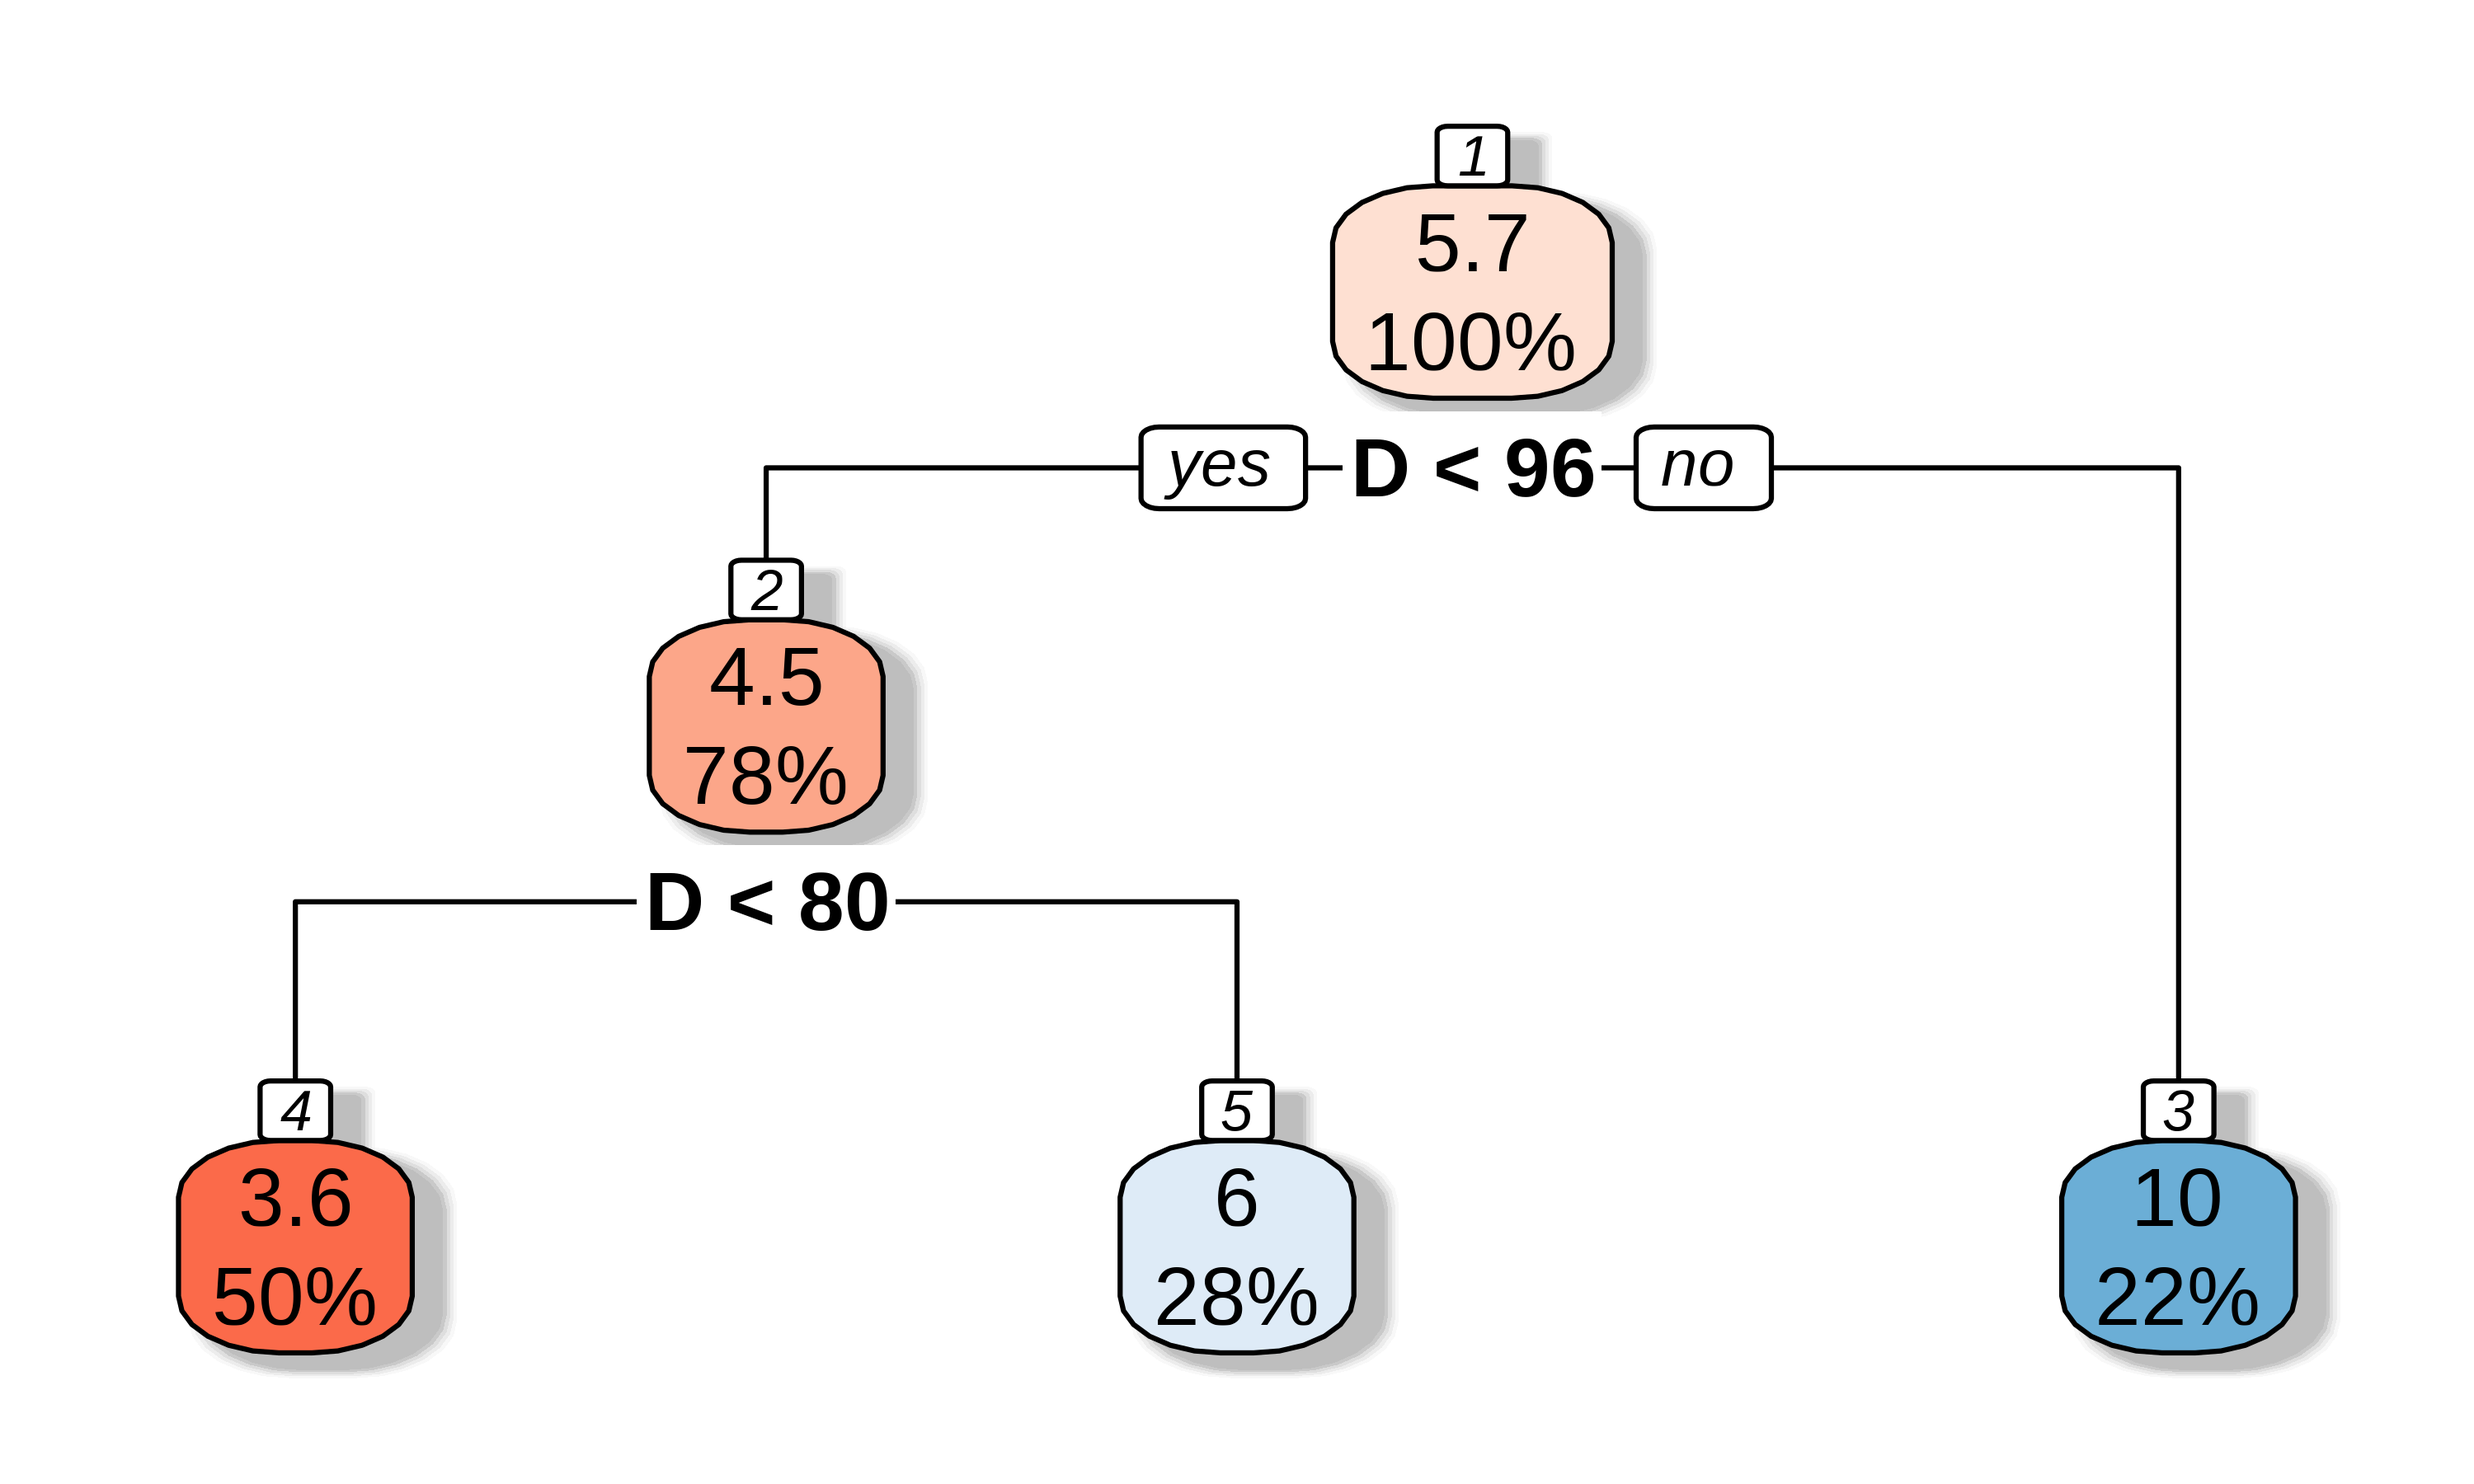
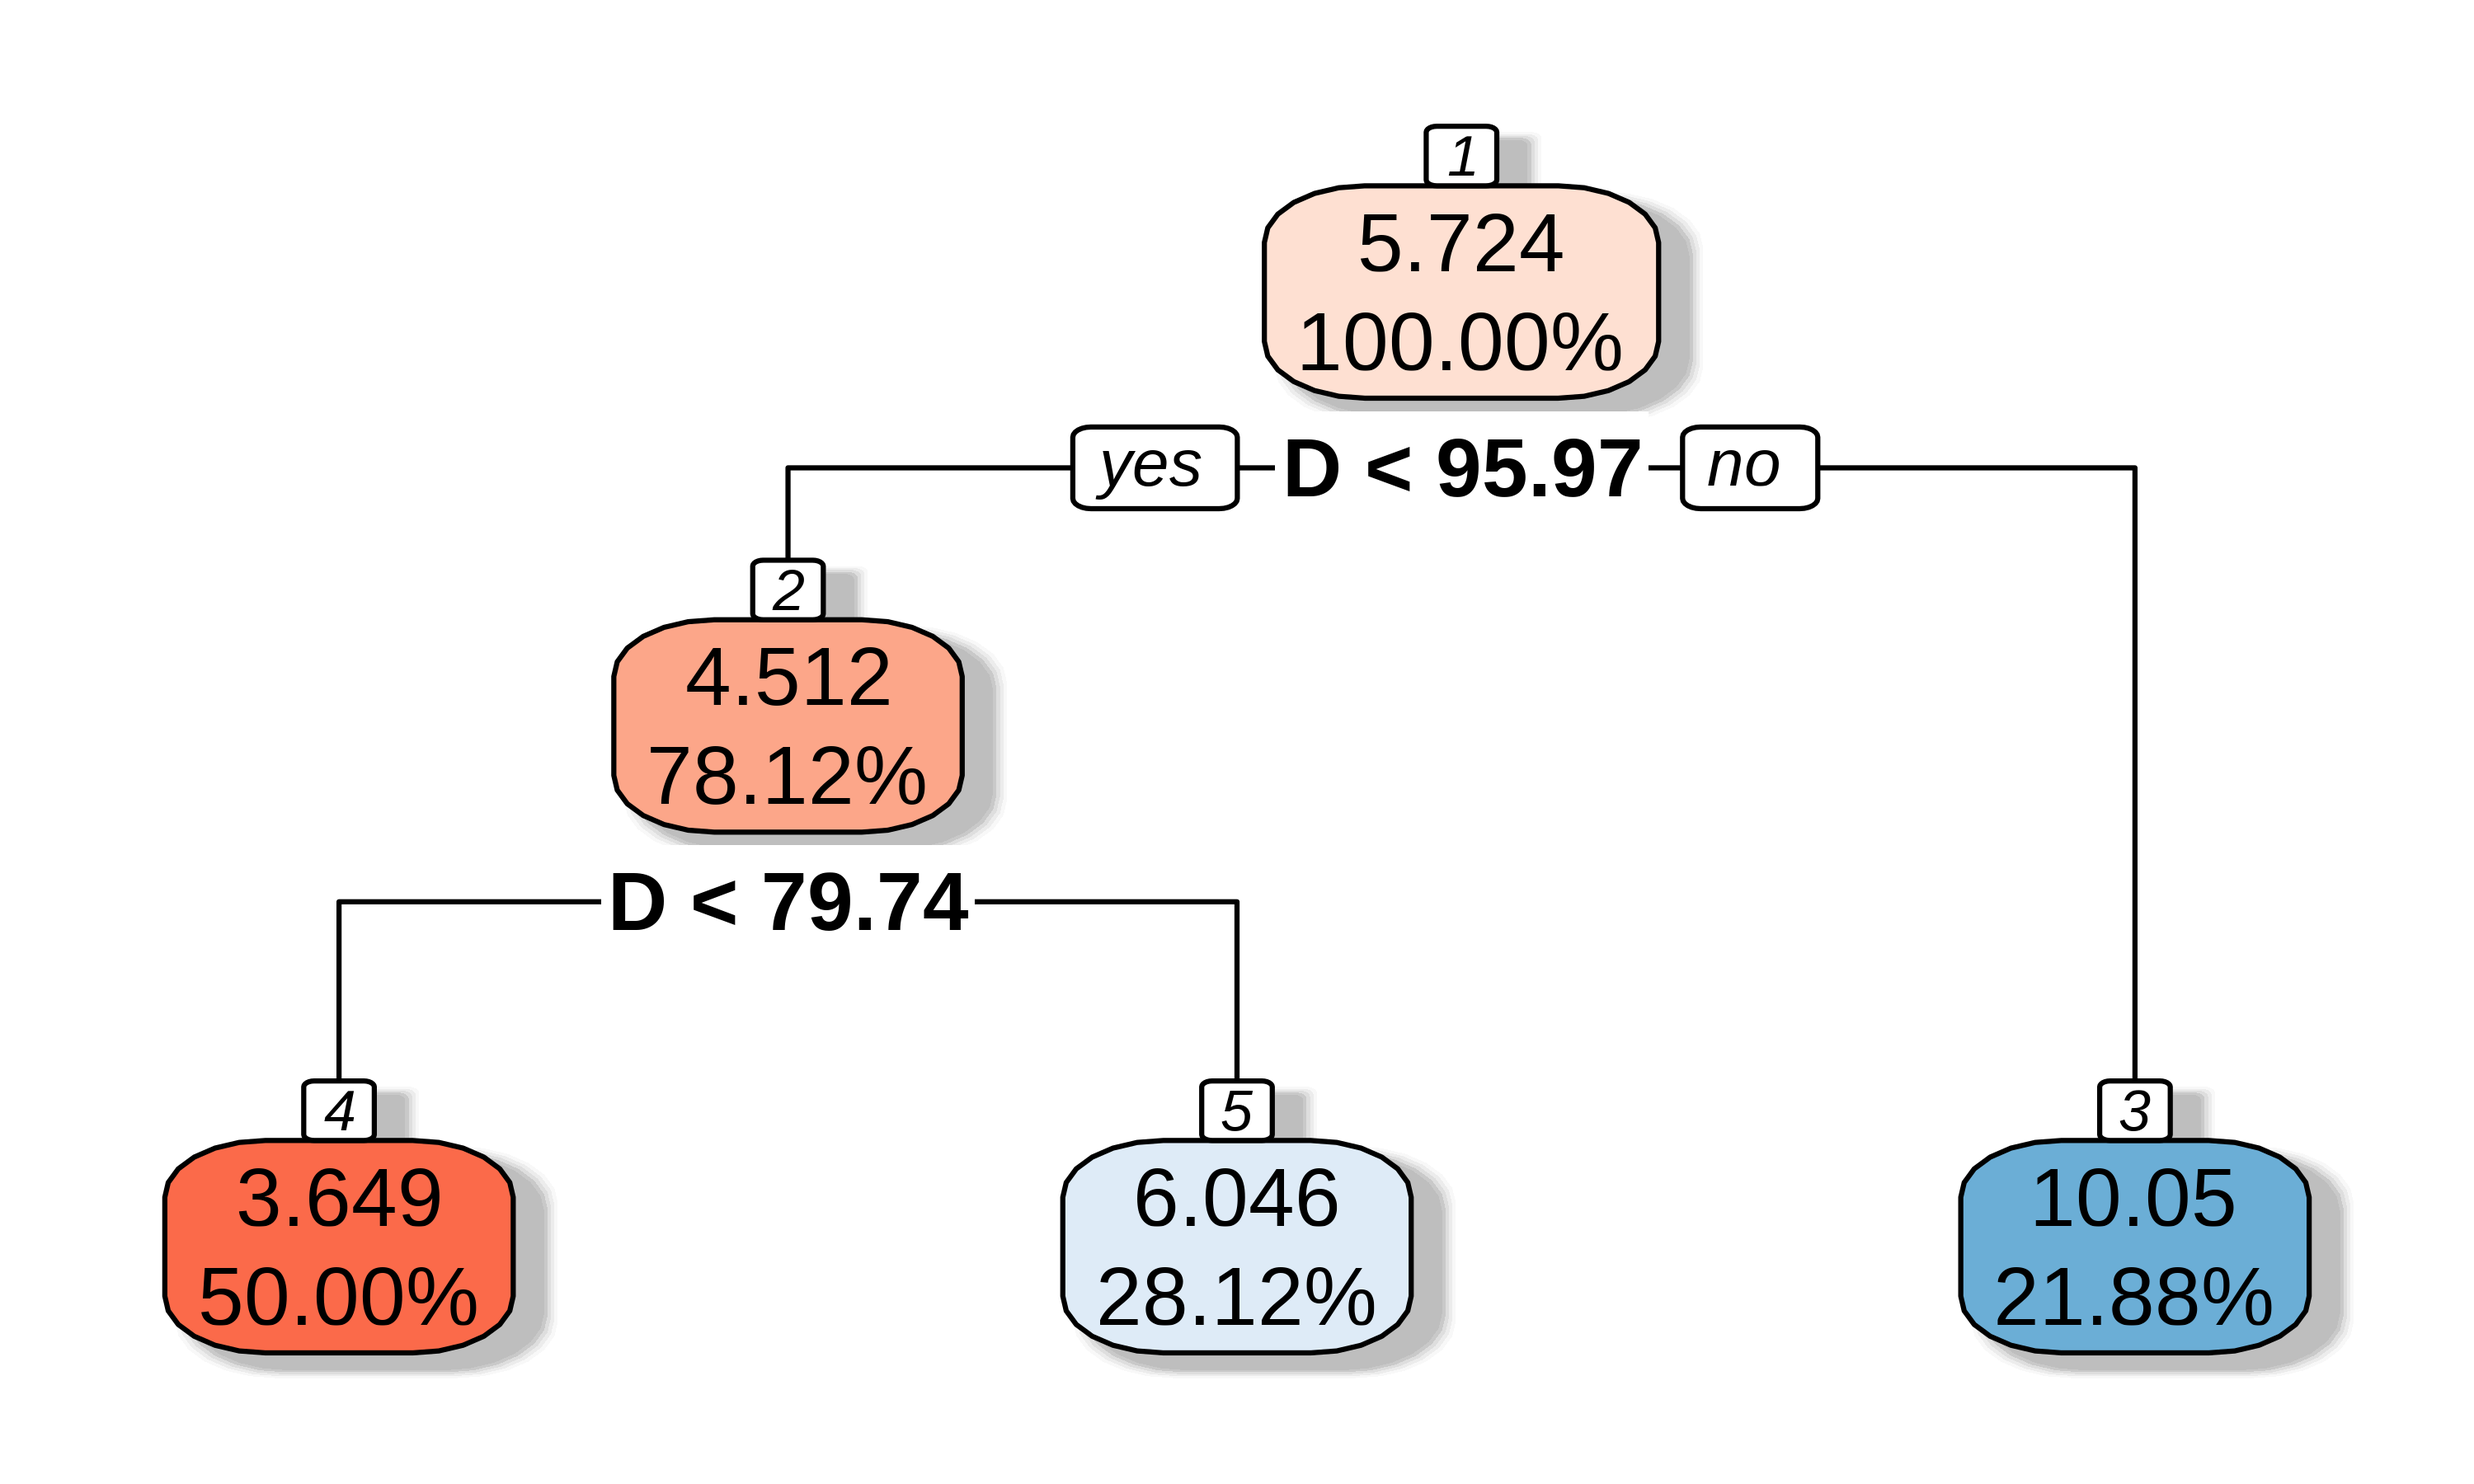
Update slides

diff --git a/docs/index.html b/docs/index.html
@@ -20,7 +20,7 @@ class: center, middle, inverse, title-slide
 ## Técnicas, Modelagem e Aplicação Web <BR> <BR> <BR> <BR>
 ### <BR> Prof. Dr. Deivison Venicio Souza
 ### <div class="line-block">Universidade Federal do Pará (UFPA) <BR> <BR></div>
-### <p>.center[03/março/2021 <BR> Altamira, Pará <BR> ]</p>
+### <p>.center[04/março/2021 <BR> Altamira, Pará <BR> ]</p>
 
 ---
 
@@ -600,7 +600,7 @@ Web page: [CARET Package](https://topepo.github.io/caret/index.html)
 
 &lt;!--Slide 15 --&gt;
 ---
-# Regression Tree: Um modelo CART...
+# Regression Tree: Como uma árvore cresce?
 
 .panelset[
 .panel[.panel-name[Dados]
@@ -823,29 +823,95 @@ Web page: [CARET Package](https://topepo.github.io/caret/index.html)
 .panel[.panel-name[CART]
 .pull-left[
 &lt;div class="figure" style="text-align: center"&gt;
-&lt;img src="index_files/figure-html/unnamed-chunk-9-1.png" alt="Árvore CART (rpart/cp = 0)"  /&gt;
-&lt;p class="caption"&gt;Árvore CART (rpart/cp = 0)&lt;/p&gt;
+&lt;img src="index_files/figure-html/unnamed-chunk-9-1.png" alt="Árvore CART (rpart/cp = 0/minsplit = 20)"  /&gt;
+&lt;p class="caption"&gt;Árvore CART (rpart/cp = 0/minsplit = 20)&lt;/p&gt;
 &lt;/div&gt;
+*minsplit* = Mínimo de 20 observações p/ tentar uma divisão
 ]
 
 .pull-right[
 .scroll-box-20[
-**1) Início**: 
-- Nó raiz (todas instâncias)/n = 32
+.shadow[
+**1) Início**
+- Nó raiz (todas instâncias)/(**n = 32**)
 - Cálculos: 
-  - Média aritmética da resposta (melhor "chute");
-  - Soma de Quadrados de Resíduos (SQR).
+  - Média aritmética da resposta (melhor ``chute''); 
+  **5.724 m³**
+  
+  - Soma de Quadrados de Resíduos (SQR). **326.19 (m³)²**
 
 `\begin{equation}
 SQR = \sum_{i=1}^{n}(y_{i} - \hat{f_{m}}(x_{i}))^{2}
 \end{equation}`
 
 `\(\hat{f_{m}}(x_{i})\)`: predição na região `\(m\)` em que a i-ésima observação é alocada.
+]
 
-**2) Primeira divisão**: 
+.shadow[
+**2) Primeira divisão** 
+- Qual divisão selecionar?
+  - Maior redução da SQR: Qual variável e ponto de corte?
+  
+  1) Variável escolhida: **D (diâmetro)**
+  
+  2) Ponto de corte: **95.97cm**
+  
+- Qual SQR p/ nós filhos?
+    - Nó ''filho'' esquerdo: 
+    **64.39 (m³)²**
+    - Nó ''filho'' direito: 
+    **93.88 (m³)²**
+    
+`\begin{equation}
+{\Delta R(s,t)} = R(t) - (R(t_L) + R(t_R)) \\
+\end{equation}`
 
+ = **326.19280 - (64.39354 + 93.87834)**
+ 
+ = **167.9208711 (m³)²**
 
+]
+
+.shadow[
+**3) Segunda divisão**
+   
+   1) Variável escolhida: **D (diâmetro)**
+  
+  2) Ponto de corte: **79.74cm**
+  
+- Qual SQR p/ nós filhos?
+    - Nó ''filho'' esquerdo: 
+    **17.41 (m³)²**
+    - Nó ''filho'' direito: 
+    **13.90 (m³)²**
+    
+`\begin{equation}
+{\Delta R(s,t)} = R(t) - (R(t_L) + R(t_R)) \\
+\end{equation}`
+
+ = **64.39354 - (17.40637 + 13.89782)**
+ 
+ = **33.0893388 (m³)²**
+
+]   
+
+.shadow[
+.center[**Resumindo**]
+
+O uso de cp=0 permitiu o crescimento de uma árvore sem restrições, comumente chamada "árvore adulta". Também, minsplit = 20 impôs a condição de existir no mínimo 20 observações em um nó para que uma divisão fosse tentada.
+
+- *Estrutura*: 
+    - Duas divisões binárias;
+    - Três nós terminais (*);
+    - Quatro regras do tipo if-then (Se então); e
+    - Somente a variável D (diâmetro) foi escolhida.
+]
+  
 ]]]
+
+
+
+
 
 .panel[.panel-name[Regras]
 
@@ -862,6 +928,10 @@ SQR = \sum_{i=1}^{n}(y_{i} - \hat{f_{m}}(x_{i}))^{2}
 ##     5) D&gt;=79.735 9  13.89782  6.045556 *
 ##   3) D&gt;=95.97 7  93.87834 10.052860 *
 ```
+
+]
+
+.panel[.panel-name[SQR]
 
 ]
 
